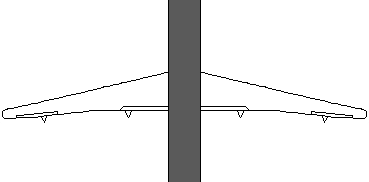
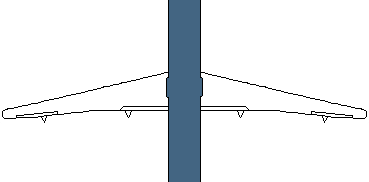
Engine

Changed region(s): [[0.4472, 0.0, 0.5664, 1.0]]

diff --git a/src/objects/Airplane.ts b/src/objects/Airplane.ts
@@ -1,4 +1,4 @@
-import { Rectangle, ZOOM } from '../constants';
+import { Rectangle } from '../constants';
 import { isInDev } from '../isInDev';
 
 export class Airplane {
@@ -6,8 +6,10 @@ export class Airplane {
 
   constructor(scene: Phaser.Scene, private x: number, private y: number) {
     scene.add.image(x, y, 'plane');
+    scene.add.image(x, y, 'passengers-up');
+    scene.add.image(x, y, 'passengers-down').setDepth(5);
 
-    this.getWingsBounds().forEach((bound) =>
+    [...this.getWingsBounds(), ...this.getHullBounds()].forEach((bound) =>
       scene.add
         .rectangle(
           bound.x,
@@ -54,6 +56,13 @@ export class Airplane {
 
   getHullBorders = () => [
     new Rectangle(this.x - 17, this.y - 91.5, 1, 73),
+    // aa
+    new Rectangle(this.x - 15, this.y - 96, 8, 65),
+    new Rectangle(this.x + 6, this.y - 96, 8, 65),
+    new Rectangle(this.x - 15, this.y + 8, 8, 65),
+    new Rectangle(this.x + 6, this.y + 8, 8, 65),
+
+    // aa
     new Rectangle(this.x - 17, this.y + 8, 1, 83.5),
     new Rectangle(this.x + 16, this.y - 91.5, 1, 73),
     new Rectangle(this.x + 16, this.y + 8, 1, 83.5),

diff --git a/src/scenes/LoadingScene.ts b/src/scenes/LoadingScene.ts
@@ -51,6 +51,8 @@ export class LoadingScene extends Phaser.Scene {
     this.load.image('clouds', 'images/clouds.png');
     this.load.image('warning', 'images/warning.png');
     this.load.image('warning2', 'images/warning2.png');
+    this.load.image('passengers-up', 'images/passengers_top.png');
+    this.load.image('passengers-down', 'images/passengers_down.png');
 
     // MARK: Audio
 
@@ -61,7 +63,6 @@ export class LoadingScene extends Phaser.Scene {
     for (const voice in BogdanVoice) {
       this.load.audio(voice, `audio/${voice}.mp3`);
     }
-    
   }
 
   public preload(): void {
